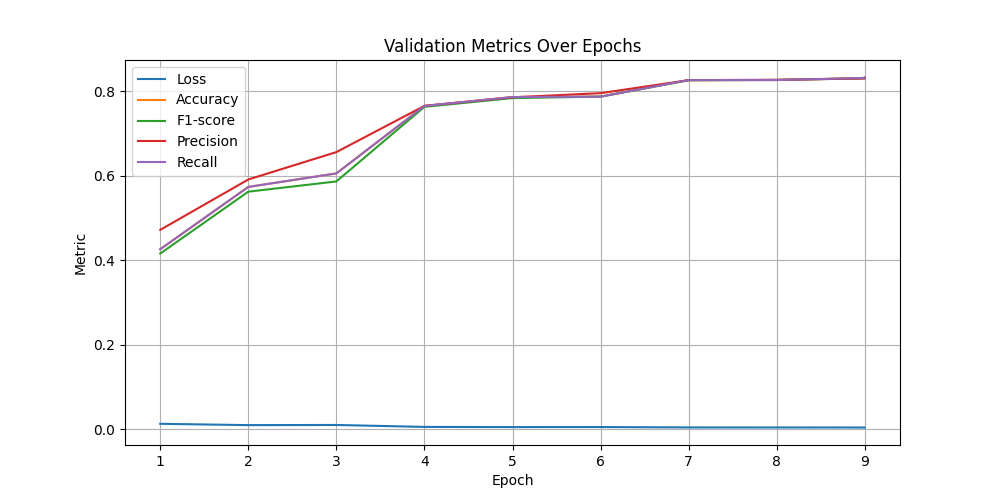
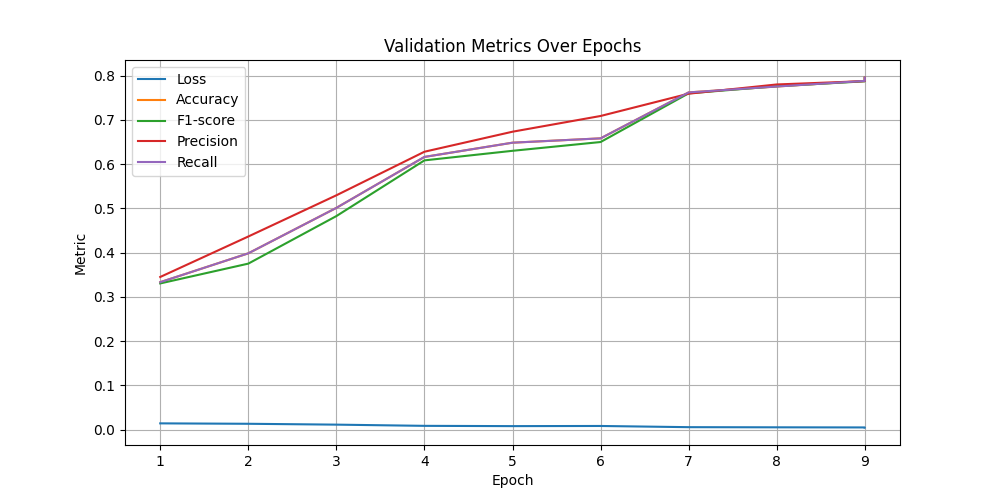
Schow performance for test and validation, implemented grid_search_sam_rho

diff --git a/utility/log.py b/utility/log.py
@@ -31,95 +31,83 @@ class Log:
         self.model_name = model_name
         self.log_data = []
         self.algorithm_name = algorithm_name
+        self.val_metrics = {}
+        self.test_metrics = {}
 
         os.makedirs(os.path.dirname(self.log_file), exist_ok=True)
 
         with open(self.log_file, mode='w', newline='') as f:
             writer = csv.writer(f)
-            writer.writerow(["epoch", "loss", "accuracy", "learning_rate", "elapsed", "f1_score", "precision", "recall"])
+            writer.writerow(["epoch", "val_loss", "val_accuracy", "test_loss", "test_accuracy"])
 
     def train(self, len_dataset: int) -> None:
         self.epoch += 1
         if self.epoch == 0:
             self._print_header()
-        else:
-            self.flush()
-
         self.is_train = True
         self._reset(len_dataset)
 
-    def eval(self, len_dataset: int) -> None:
+    def eval(self, len_dataset: int, label="Validation") -> None:
         self.flush()
         self.is_train = False
+        self.eval_label = label
         self._reset(len_dataset)
 
     def __call__(self, model, loss, accuracy, learning_rate: float = None, y_true=None, y_pred=None) -> None:
+        self._eval_step(loss, accuracy, y_true, y_pred)
         if self.is_train:
-            self._train_step(model, loss, accuracy, learning_rate, y_true, y_pred)
-        else:
-            self._eval_step(loss, accuracy, y_true, y_pred)
+            self.learning_rate = learning_rate
             self._save_if_best(model)
 
+
     def flush(self) -> None:
+        if not hasattr(self, "epoch_state") or self.is_train or self.epoch_state["steps"] == 0:
+            return
+
         loss = self.epoch_state["loss"] / self.epoch_state["steps"]
         accuracy = self.epoch_state["accuracy"] / self.epoch_state["steps"]
         y_true = self.epoch_state["y_true"]
         y_pred = self.epoch_state["y_pred"]
 
-        f1 = f1_score(y_true, y_pred, average='macro') if y_true and y_pred else 0.0
-        precision = precision_score(y_true, y_pred, average='macro') if y_true and y_pred else 0.0
-        recall = recall_score(y_true, y_pred, average='macro') if y_true and y_pred else 0.0
-        
-        if self.is_train:
-            print(
-                f"\r┃{self.epoch:12d}  ┃{loss:12.4f}  │{100*accuracy:10.2f} %  ┃{self.learning_rate:12.3e}  │{self._time():>12}  ┃",
-                end="",
-                flush=True,
-            )
-        else:
-            print(f"{loss:12.4f}  │{100*accuracy:10.2f} %  ┃", flush=True)
+        f1 = f1_score(y_true, y_pred, average='macro') if len(y_true) > 0 else 0.0
+        precision = precision_score(y_true, y_pred, average='macro', zero_division=0) if len(y_true) > 0 else 0.0
+        recall = recall_score(y_true, y_pred, average='macro', zero_division=0) if len(y_true) > 0 else 0.0
+
+        if self.eval_label == "Validation":
+            self.val_metrics = {"loss": loss, "accuracy": accuracy}
             if accuracy > self.best_accuracy:
                 self.best_accuracy = accuracy
+
+        elif self.eval_label == "Test":
+            self.test_metrics = {"loss": loss, "accuracy": accuracy}
+
+        if hasattr(self, "val_metrics") and hasattr(self, "test_metrics"):
+            val_loss = self.val_metrics.get("loss") if hasattr(self, "val_metrics") else None
+            val_acc = self.val_metrics.get("accuracy") if hasattr(self, "val_metrics") else None
+            test_loss = self.test_metrics.get("loss", 0.0)
+            test_acc = self.test_metrics.get("accuracy", 0.0)
+
+            if val_loss is None or val_acc is None:
+                print(f"[WARNING] Validation metrics not available before test flush at epoch {self.epoch}.")
+                return
+
+            print(
+                f"┃{self.epoch:12d}  ┃{val_loss:12.4f}  │{100*val_acc:10.2f} %  ┃"
+                f"{test_loss:12.4f} │{100*test_acc:10.2f} %┃",
+                flush=True
+            )
 
         with open(self.log_file, mode='a', newline='') as f:
             writer = csv.writer(f)
             writer.writerow([
                 self.epoch,
-                f"{loss:.4f}",
-                f"{accuracy:.4f}",
-                f"{self.learning_rate:.3e}" if self.is_train else "-",
-                self._time(),
-                f"{f1:.4f}",
-                f"{precision:.4f}",
-                f"{recall:.4f}"
+                f"{val_loss:.4f}",
+                f"{val_acc:.4f}",
+                f"{test_loss:.4f}",
+                f"{test_acc:.4f}"
             ])
 
-        
-        
-        if not self.is_train:
-            self.log_data.append((self.epoch, loss, accuracy, f1, precision, recall))
-            self._plot_metrics()
 
-    def _train_step(self, model, loss, accuracy, learning_rate: float, y_true=None, y_pred=None) -> None:
-        self.learning_rate = learning_rate
-        batch_size = accuracy.size(0)
-        self.epoch_state["loss"] += loss.sum().item()
-        self.epoch_state["accuracy"] += accuracy.sum().item()
-        self.epoch_state["steps"] += batch_size
-        if y_true is not None and y_pred is not None:
-            self.epoch_state["y_true"].extend(y_true.cpu().tolist())
-            self.epoch_state["y_pred"].extend(y_pred.cpu().tolist())
-        self.step += 1
-
-        if self.step % self.log_each == self.log_each - 1:
-            loss = self.epoch_state["loss"] / self.epoch_state["steps"]
-            accuracy = self.epoch_state["accuracy"] / self.epoch_state["steps"]
-
-            print(
-                f"\r┃{self.epoch:12d}  ┃{loss:12.4f}  │{100*accuracy:10.2f} %  ┃{learning_rate:12.3e}  │{self._time():>12}  ┃",
-                end="",
-                flush=True,
-            )
 
     def _eval_step(self, loss, accuracy, y_true=None, y_pred=None) -> None:
         batch_size = accuracy.size(0)
@@ -144,15 +132,11 @@ class Log:
         self.len_dataset = len_dataset
         self.epoch_state = {"loss": 0.0, "accuracy": 0.0, "steps": 0, "y_true": [], "y_pred": []}
 
-    def _time(self) -> str:
-        time_seconds = int(time.time() - self.start_time)
-        return f"{time_seconds // 60:02d}:{time_seconds % 60:02d} min"
-
     def _print_header(self) -> None:
-        print(f"┏━━━━━━━━━━━━━━┳━━━━━━━╸T╺╸R╺╸A╺╸I╺╸N╺━━━━━━━┳━━━━━━━╸S╺╸T╺╸A╺╸T╺╸S╺━━━━━━━┳━━━━━━━╸V╺╸A╺╸L╺╸I╺╸D╺━━━━━━━┓")
-        print(f"┃              ┃              ╷              ┃              ╷              ┃              ╷              ┃")
-        print(f"┃       epoch  ┃        loss  │    accuracy  ┃        l.r.  │     elapsed  ┃        loss  │    accuracy  ┃")
-        print(f"┠──────────────╂──────────────┼──────────────╂──────────────┼──────────────╂──────────────┼──────────────┨")
+        print(f"┏━━━━━━━━━━━━━━┳━━━━━━━╸V╺╸A╺╸L╺╸I╺╸D╺━━━━━━━┳━━━━━━━╸T-E-S-T╺━━━━━━━┓")
+        print(f"┃              ┃              ╷              ┃             ╷         ┃")
+        print(f"┃       epoch  ┃        loss  │    accuracy  ┃       loss  │accuracy ┃")
+        print(f"┠──────────────╂──────────────┼──────────────╂─────────────┼─────────┨")
 
     def _plot_metrics(self):
         if not self.log_data:
@@ -173,36 +157,42 @@ class Log:
         filename = os.path.splitext(os.path.basename(self.model_name))[0]
         plt.savefig(os.path.join(self.log_dir, f"metrics_plot_{filename}.png"))
         plt.close()
+        
     def _plot_comparison(self):
         try:
             import pandas as pd
-            sam_path = os.path.join(self.log_dir, "training_sam.csv")
-            sgd_path = os.path.join(self.log_dir, "training_sgd.csv")
+            sam_path = os.path.join(self.log_dir, "evaluation_sam.csv")
+            sgd_path = os.path.join(self.log_dir, "evaluation_sgd.csv")
 
             if os.path.exists(sam_path) and os.path.exists(sgd_path):
                 sam_df = pd.read_csv(sam_path)
                 sgd_df = pd.read_csv(sgd_path)
 
                 plt.figure(figsize=(10, 5))
-                plt.plot(sam_df["epoch"], sam_df["accuracy"], label="SAM", linestyle='--')
-                plt.plot(sgd_df["epoch"], sgd_df["accuracy"], label="SGD", linestyle='-')
+                plt.plot(sam_df["epoch"], sam_df["test_accuracy"], label="SAM", linestyle='--')
+                plt.plot(sgd_df["epoch"], sgd_df["test_accuracy"], label="SGD", linestyle='-')
                 plt.xlabel("Epoch")
                 plt.ylabel("Accuracy")
-                plt.title("SGD vs SAM Accuracy")
+                plt.title("SGD vs SAM - Test Accuracy")
                 plt.legend()
                 plt.grid(True)
-                plt.savefig(os.path.join(self.log_dir, "comparison_accuracy.png"))
+                plt.savefig(os.path.join(self.log_dir, "comparison_test_accuracy.png"))
                 plt.close()
 
                 plt.figure(figsize=(10, 5))
-                plt.plot(sam_df["epoch"], sam_df["loss"], label="SAM", linestyle='--')
-                plt.plot(sgd_df["epoch"], sgd_df["loss"], label="SGD", linestyle='-')
+                plt.plot(sam_df["epoch"], sam_df["test_loss"], label="SAM", linestyle='--')
+                plt.plot(sgd_df["epoch"], sgd_df["test_loss"], label="SGD", linestyle='-')
                 plt.xlabel("Epoch")
                 plt.ylabel("Loss")
-                plt.title("SGD vs SAM Loss")
+                plt.title("SGD vs SAM Test Loss")
                 plt.legend()
                 plt.grid(True)
-                plt.savefig(os.path.join(self.log_dir, "comparison_loss.png"))
+                plt.savefig(os.path.join(self.log_dir, "comparison_test_loss.png"))
                 plt.close()
         except Exception as e:
             print(f"[PlotComparisonError] {e}")
+            
+    def _time(self) -> str:
+        elapsed_seconds = int(time.time() - self.start_time)
+        return f"{elapsed_seconds // 60:02d}:{elapsed_seconds % 60:02d} min"
+

diff --git a/train.py b/train.py
@@ -4,7 +4,7 @@ import torch.nn as nn
 from torch.utils.data import DataLoader
 from torchvision import transforms
 from torchvision.datasets import CIFAR10
-
+from torch.utils.data import random_split
 from model.Net import ResNet20, ResNet32, ResNet44, ResNet56, ResNet110, WRN56_2, WRN56_4, WRN56_8
 from utility.log import Log
 from utility.initialize import initialize
@@ -19,10 +19,6 @@ def train(model, optimizer, scheduler, dataset, args, log, use_sam=False):
     for epoch in range(args.epochs):
         model.train()
         log.train(len_dataset=len(dataset["train"]))
-
-        epoch_loss = 0.0
-        epoch_correct = 0
-        total_samples = 0
 
         for inputs, targets in dataset["train"]:
             inputs, targets = inputs.to(device), targets.to(device)
@@ -45,27 +41,72 @@ def train(model, optimizer, scheduler, dataset, args, log, use_sam=False):
                 loss.backward()
                 optimizer.step()
 
-            with torch.no_grad():
-                correct = torch.argmax(predictions, dim=1) == targets
-                epoch_loss += loss.item() * inputs.size(0)
-                epoch_correct += correct.sum().item()
-                total_samples += inputs.size(0)
-                log(model, loss.cpu(), correct.cpu(), scheduler.lr(), y_true=targets, y_pred=torch.argmax(predictions, 1))
-                scheduler(epoch)
+            
+            scheduler(epoch)
 
 
         model.eval()
-        log.eval(len_dataset=len(dataset["test"]))
-
+        log.eval(len_dataset=len(dataset["val"]), label="Validation")
+        with torch.no_grad():
+            for inputs, targets in dataset["val"]:
+                inputs, targets = inputs.to(device), targets.to(device)
+                predictions = model(inputs)
+                loss = criterion(predictions, targets)
+                preds = torch.argmax(predictions, dim=1)
+                correct = (preds == targets).float()
+                batch_size = targets.size(0)
+                acc_tensor = torch.full((batch_size,), correct.sum().item() / batch_size)
+                log(model, loss.cpu(), acc_tensor.cpu(), y_true=targets.cpu(), y_pred=preds.cpu())
+    
+    
+        model.eval()
+        log.eval(len_dataset=len(dataset["test"]), label="Test")
         with torch.no_grad():
             for inputs, targets in dataset["test"]:
                 inputs, targets = inputs.to(device), targets.to(device)
                 predictions = model(inputs)
                 loss = criterion(predictions, targets)
-                correct = torch.argmax(predictions, dim=1) == targets
-                log(model, loss.cpu(), correct.cpu(), y_true=targets, y_pred=torch.argmax(predictions, 1))
+                preds = torch.argmax(predictions, dim=1)
+                correct = (preds == targets).float()
+                batch_size = targets.size(0)
+                acc_tensor = torch.full((batch_size,), correct.sum().item() / batch_size)
+                log(model, loss.cpu(), acc_tensor.cpu(), y_true=targets.cpu(), y_pred=preds.cpu())
+    
 
-    log.flush()
+        log.flush()
+        
+        
+def grid_search_sam_rho(model_fn, dataset, args, rhos=[0.01, 0.03, 0.05, 0.1]):
+    device = torch.device("cuda" if torch.cuda.is_available() else "cpu")
+    results = []
+
+    for rho in rhos:
+        print(f"\n>>> Training SAM with rho = {rho}")
+        model = model_fn(num_classes=10).to(device)
+
+        base_optimizer = torch.optim.SGD
+        optimizer = SAM(
+            model.parameters(),
+            base_optimizer,
+            rho=rho,
+            adaptive=False,
+            lr=args.learning_rate,
+            momentum=args.momentum,
+            weight_decay=args.weight_decay
+        )
+        scheduler = StepLR(optimizer.base_optimizer, args.learning_rate, args.epochs)
+
+        log_file = f"evaluation_sam_rho_{rho:.3f}.csv"
+        model_name = f"model_sam_rho_{rho:.3f}.pth"
+        log = Log(log_each=10, log_file=log_file, model_name=model_name, algorithm_name=f"SAM_rho_{rho:.3f}")
+        train(model, optimizer, scheduler, dataset, args, log, use_sam=True)
+
+        results.append((rho, log.best_accuracy))
+
+    best_rho, best_acc = max(results, key=lambda x: x[1])
+    print(f"\n[GRID SEARCH] Best rho: {best_rho:.3f} with Validation Accuracy: {best_acc*100:.2f}%")
+
+
 if __name__ == "__main__":
     parser = argparse.ArgumentParser()
     parser.add_argument("--batch_size", default=128, type=int)
@@ -93,12 +134,17 @@ if __name__ == "__main__":
         transforms.Normalize((0.4914, 0.4822, 0.4465), (0.2023, 0.1994, 0.2010)),
     ])
 
-    train_dataset = CIFAR10(root="./cifar", train=True, download=True, transform=transform_train)
+    full_train_dataset = CIFAR10(root="./cifar", train=True, download=True, transform=transform_train)
     test_dataset = CIFAR10(root="./cifar", train=False, download=True, transform=transform_test)
+    
+    train_size = int(0.9 * len(full_train_dataset))  # 45k
+    val_size = len(full_train_dataset) - train_size  # 5k
+    train_dataset, val_dataset = random_split(full_train_dataset, [train_size, val_size])
 
     train_loader = DataLoader(train_dataset, batch_size=args.batch_size, shuffle=True, num_workers=2)
+    val_loader = DataLoader(val_dataset, batch_size=args.batch_size, shuffle=False, num_workers=2)
     test_loader = DataLoader(test_dataset, batch_size=args.batch_size, shuffle=False, num_workers=2)
-    dataset = {"train": train_loader, "test": test_loader}
+    dataset = {"train": train_loader, "val": val_loader, "test": test_loader}
 
     '''resnet_versions = {
         20: ResNet20,
@@ -124,7 +170,7 @@ if __name__ == "__main__":
     model_sgd = model_fn(num_classes=10).to(device)
     optimizer_sgd = torch.optim.SGD(model_sgd.parameters(), lr=args.learning_rate, momentum=args.momentum, weight_decay=args.weight_decay)
     scheduler_sgd = StepLR(optimizer_sgd, args.learning_rate, args.epochs)
-    log_sgd = Log(log_each=10, log_file="training_sgd.csv", model_name="model_sgd.pth")
+    log_sgd = Log(log_each=10, log_file="evaluation_sgd.csv", model_name="model_sgd.pth")
     train(model_sgd, optimizer_sgd, scheduler_sgd, dataset, args, log_sgd, use_sam=False)
 
     print("\n>>> Training with SAM")
@@ -132,8 +178,11 @@ if __name__ == "__main__":
     base_optimizer = torch.optim.SGD
     optimizer_sam = SAM(model_sam.parameters(), base_optimizer, rho=args.rho, adaptive=False, lr=args.learning_rate, momentum=args.momentum, weight_decay=args.weight_decay)
     scheduler_sam = StepLR(optimizer_sam.base_optimizer, args.learning_rate, args.epochs)
-    log_sam = Log(log_each=10, log_file="training_sam.csv", model_name="model_sam.pth")
+    log_sam = Log(log_each=10, log_file="evaluation_sam.csv", model_name="model_sam.pth")
     train(model_sam, optimizer_sam, scheduler_sam, dataset, args, log_sam, use_sam=True)
 
+    #print("\n>>> Grid Search for SAM rho")
+    #grid_search_sam_rho(model_fn, dataset, args, rhos=[0.01, 0.03, 0.05, 0.1])
+    
     print(f"\nFinal Accuracy SGD:  {log_sgd.best_accuracy * 100:.2f}%")
     print(f"Final Accuracy SAM:  {log_sam.best_accuracy * 100:.2f}%")

diff --git a/data/cifar.py b/data/cifar.py
@@ -31,7 +31,7 @@ class Cifar:
         self.classes = ('plane', 'car', 'bird', 'cat', 'deer', 'dog', 'frog', 'horse', 'ship', 'truck')
 
     def _get_statistics(self):
-        train_set = torchvision.datasets.CIFAR100(root='./cifar', train=True, download=True, transform=transforms.ToTensor())
+        train_set = torchvision.datasets.CIFAR10(root='./cifar', train=True, download=True, transform=transforms.ToTensor())
 
         data = torch.cat([d[0] for d in DataLoader(train_set)])
         return data.mean(dim=[0, 2, 3]), data.std(dim=[0, 2, 3])
